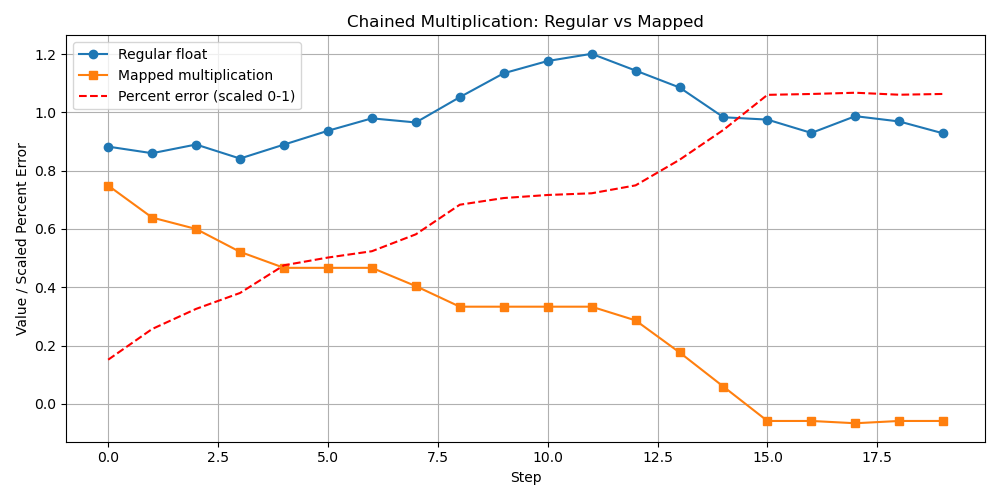
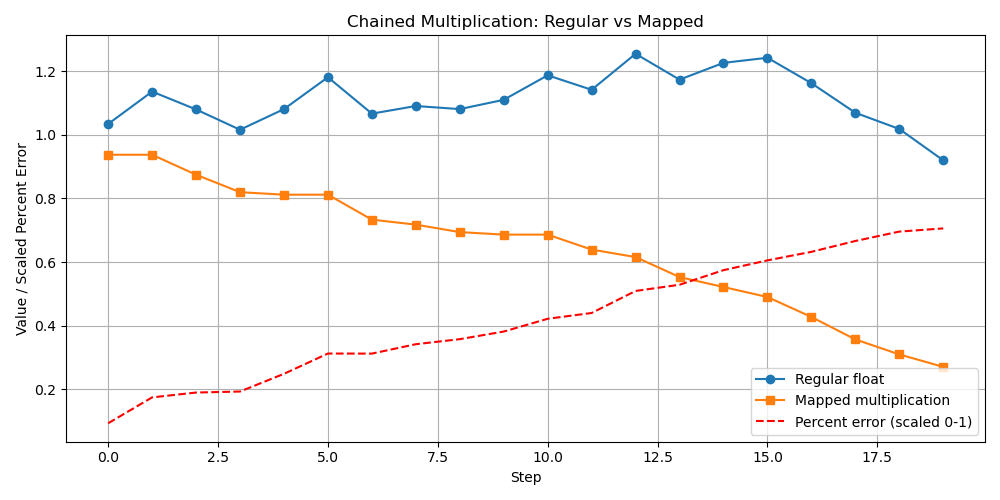
wow

diff --git a/multiplication_map_loader.py b/multiplication_map_loader.py
@@ -14,10 +14,12 @@ uint8_map = load_multiplication_map(16)
 # print(uint8_map)
 
 
-def multiplyIntSpace(a,b,uint8_map):
-    size = uint8_map.shape[0]  # assume square map
+def multiplyIntSpace(a, b, uint8_map):
+    size = uint8_map.shape[0]
     x = int(a * (size-1) / 255)
     y = int(b * (size-1) / 255)
+    x = min(max(x, 0), size-1)
+    y = min(max(y, 0), size-1)
     return uint8_map[x, y]
 
 def multiplyFloatSpace(fa, fb, uint8_map):

diff --git a/multiplication_compound_test_not_near_zero.py b/multiplication_compound_test_not_near_zero.py
@@ -2,7 +2,7 @@ import numpy as np
 from multiplication_map_loader import load_multiplication_map, testFloat
 import matplotlib.pyplot as plt
 
-uint8_map = load_multiplication_map(16)
+uint8_map = load_multiplication_map(64)
 
 def testLongLivingChain(uint8_map, chain_length=50, seed=None):
     """
